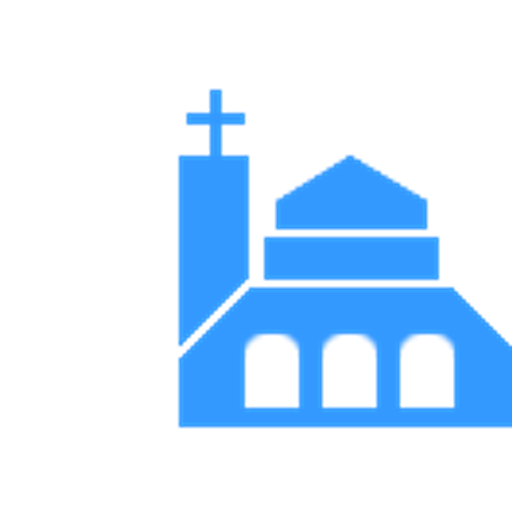
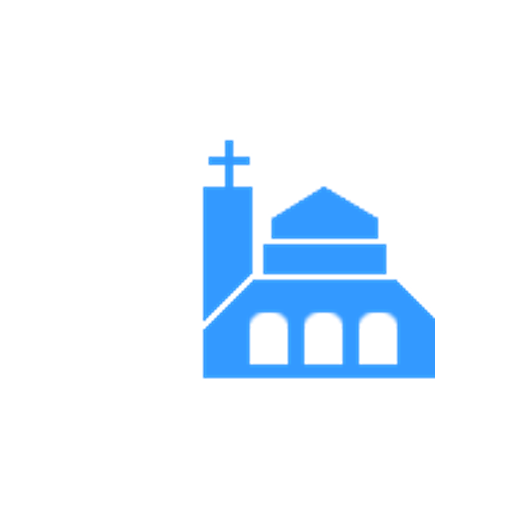
PWA: corregge icona homescreen per iOS
- Icone rigenerate con sfondo bianco (prima trasparente → nero su iOS)
- Aggiunta apple-touch-icon.png 180×180 per Safari/iOS
- layout.tsx: aggiunto metadata icons con apple-touch-icon e favicon

Changed region(s): [[0.3438, 0.1562, 1.0, 0.8438]]

diff --git a/src/app/layout.tsx b/src/app/layout.tsx
@@ -14,6 +14,13 @@ export const metadata: Metadata = {
   },
   description:
     "Sito della Parrocchia Sant'Alfonso Maria de' Liguori, Via della Giustiniana 227, Prima Porta, Roma. Orari messe, news, eventi e risorse della comunità.",
+  icons: {
+    apple: [{ url: "/apple-touch-icon.png", sizes: "180x180", type: "image/png" }],
+    icon: [
+      { url: "/icon-192x192.png", sizes: "192x192", type: "image/png" },
+      { url: "/icon-512x512.png", sizes: "512x512", type: "image/png" },
+    ],
+  },
 };
 
 const themeInit = `(function(){try{var t=localStorage.getItem("sa-theme");if(t==="dark"||(t===null&&window.matchMedia("(prefers-color-scheme: dark)").matches)){document.documentElement.setAttribute("data-theme","dark")}}catch(e){}})();`;